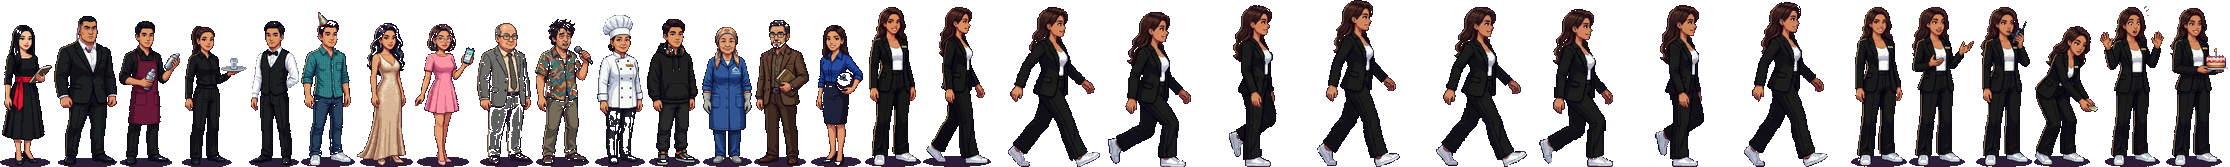
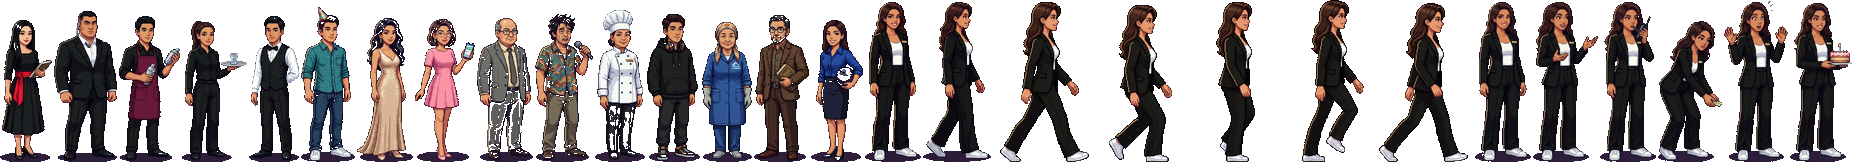
Use user-provided 5-frame walk animation (4-frame loop at 8 fps)
Claude-Session: https://claude.ai/code/session_01N4C5DtYXhkWmff1TfTMec3

diff --git a/index.html b/index.html
@@ -164,7 +164,7 @@ function drawRig(x,feet,s,flip,ph,walk,t){const M=RIG._meta,U=122*s/(M.bottom-M.
  c.restore()}
 let POSE=null,POSET=0,CUR=null;
 function pose(k,d=.8){POSE=k;POSET=d}
-function meFrame(walking){if(walking)return 'mw'+((T*10|0)%8);
+function meFrame(walking){if(walking)return 'mw'+((T*8|0)%4);
  if(POSET>0)return POSE;if(S.done&&!open)return 'ma0';
  if(open&&CUR==='me')return typing&&((T*4|0)%2)?'ma1':'ma0';
  if(open&&CUR&&CUR.startsWith('r:'))return 'ma2';
